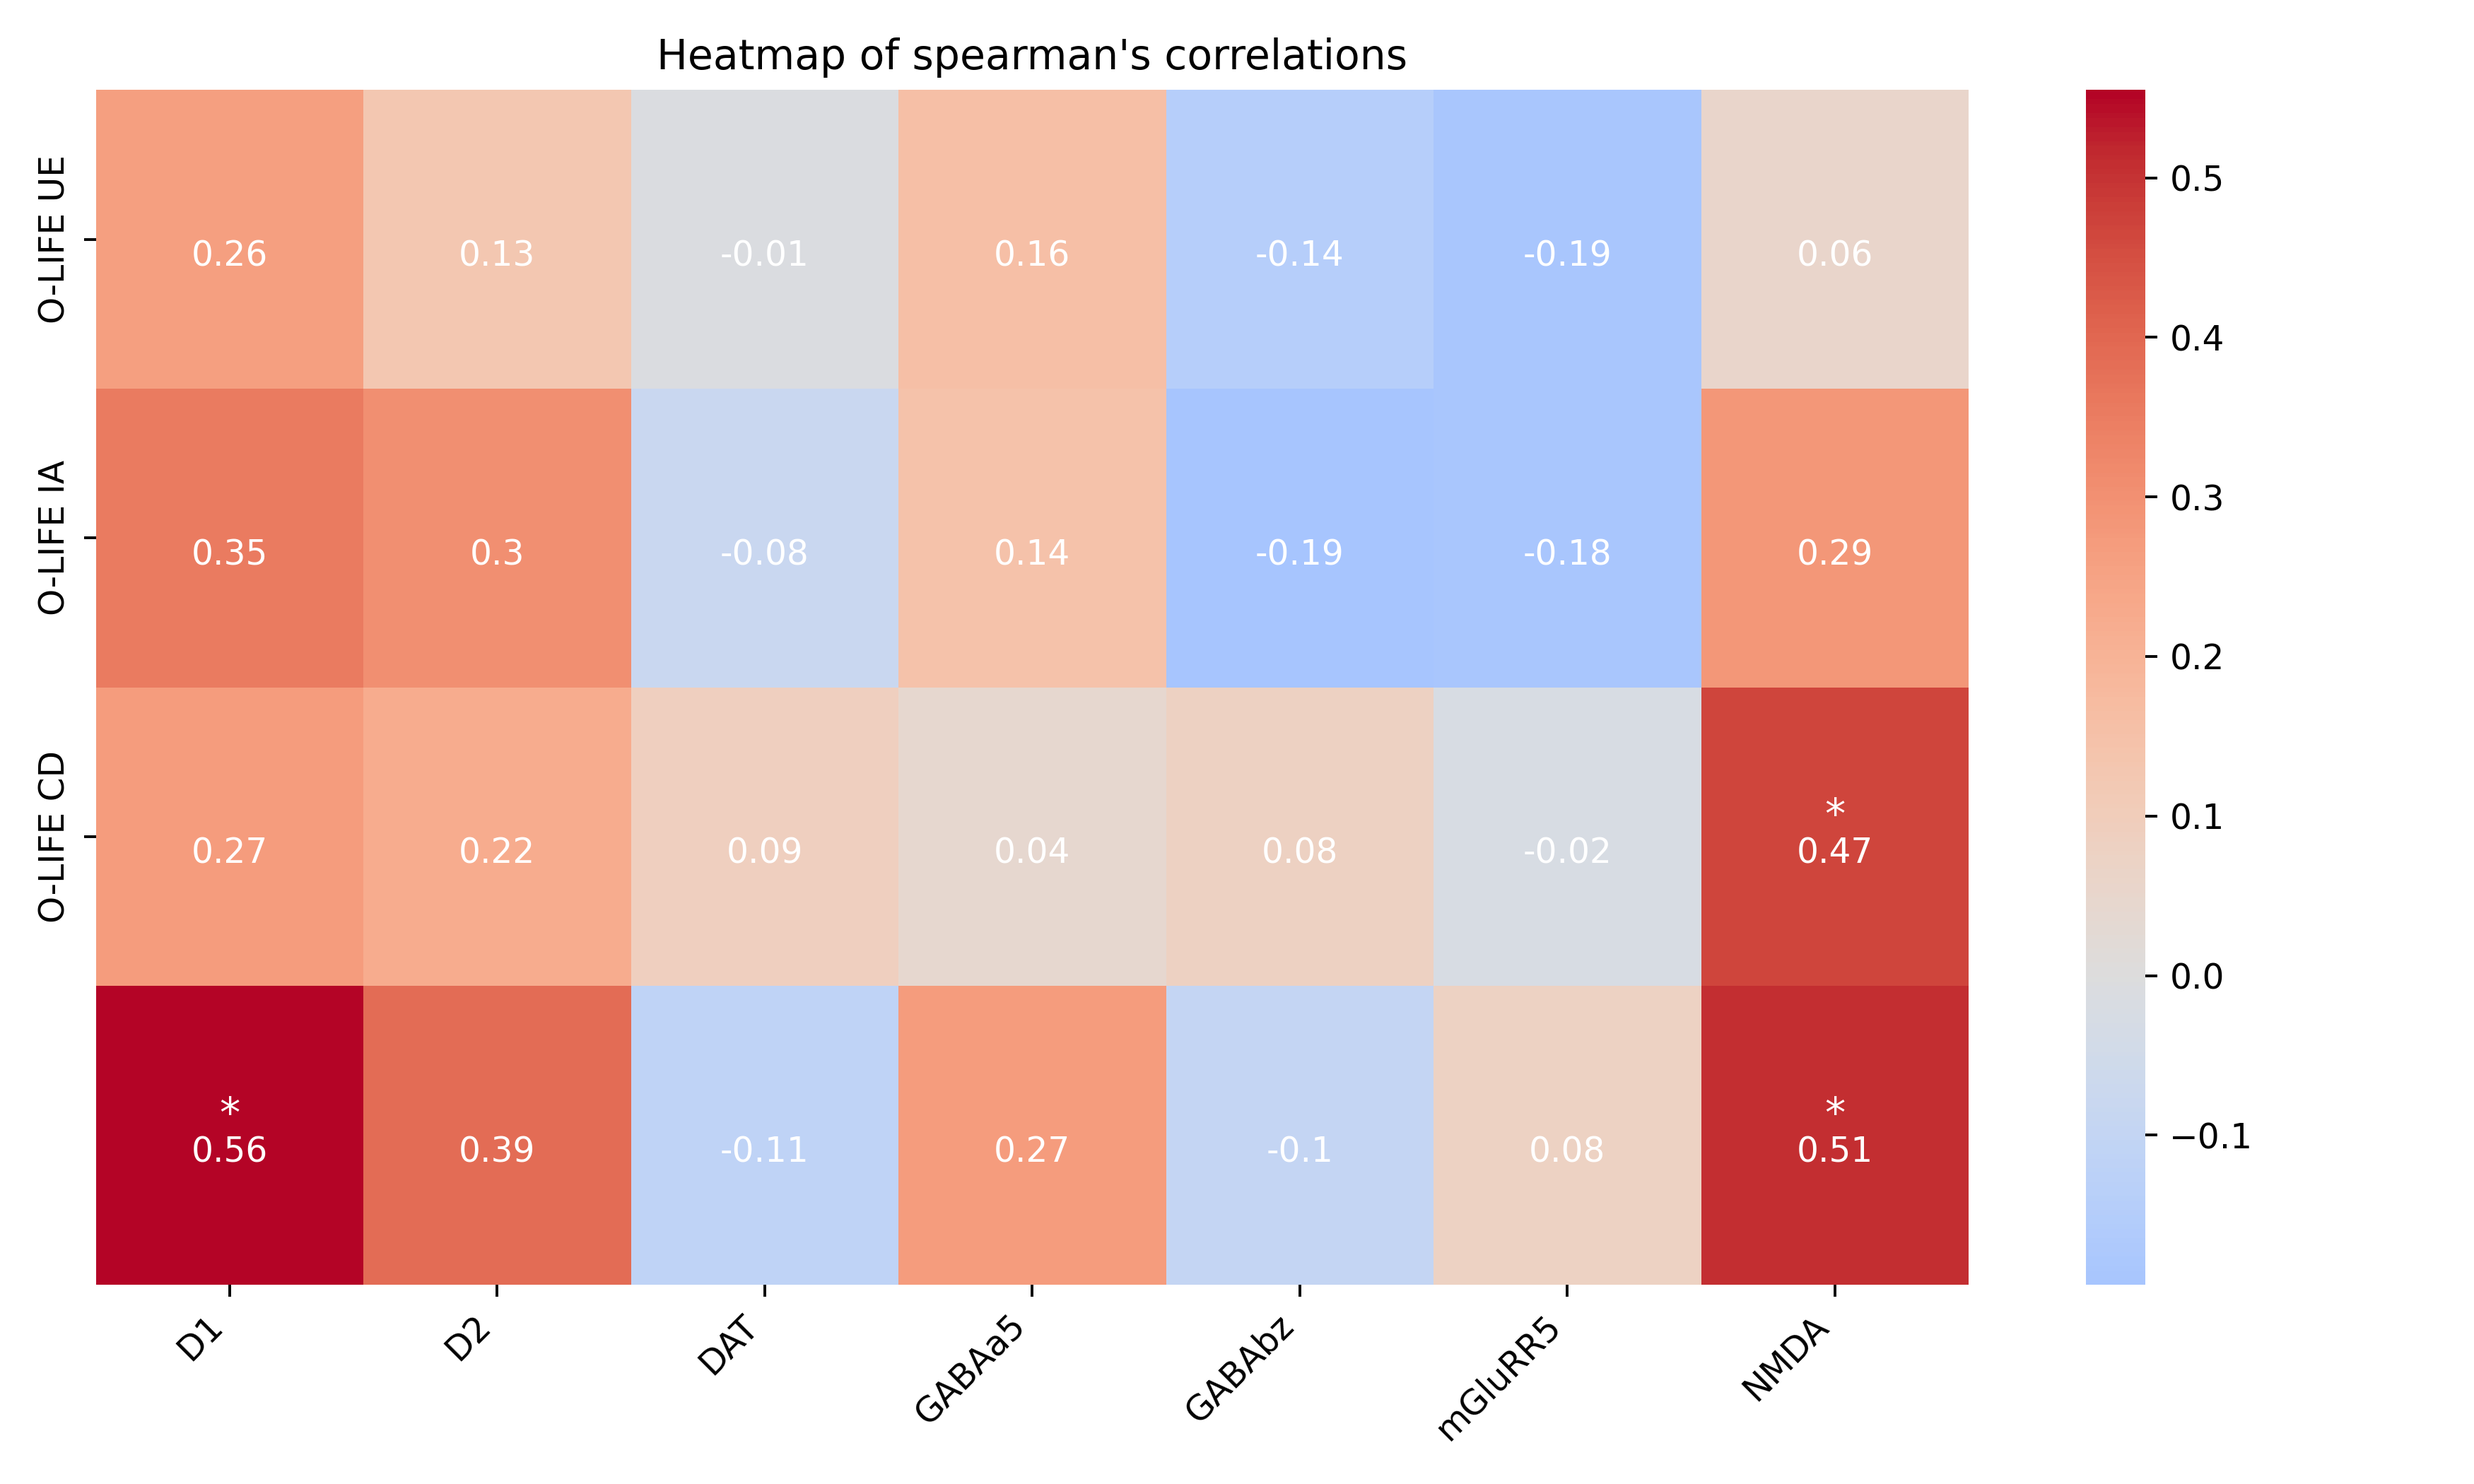
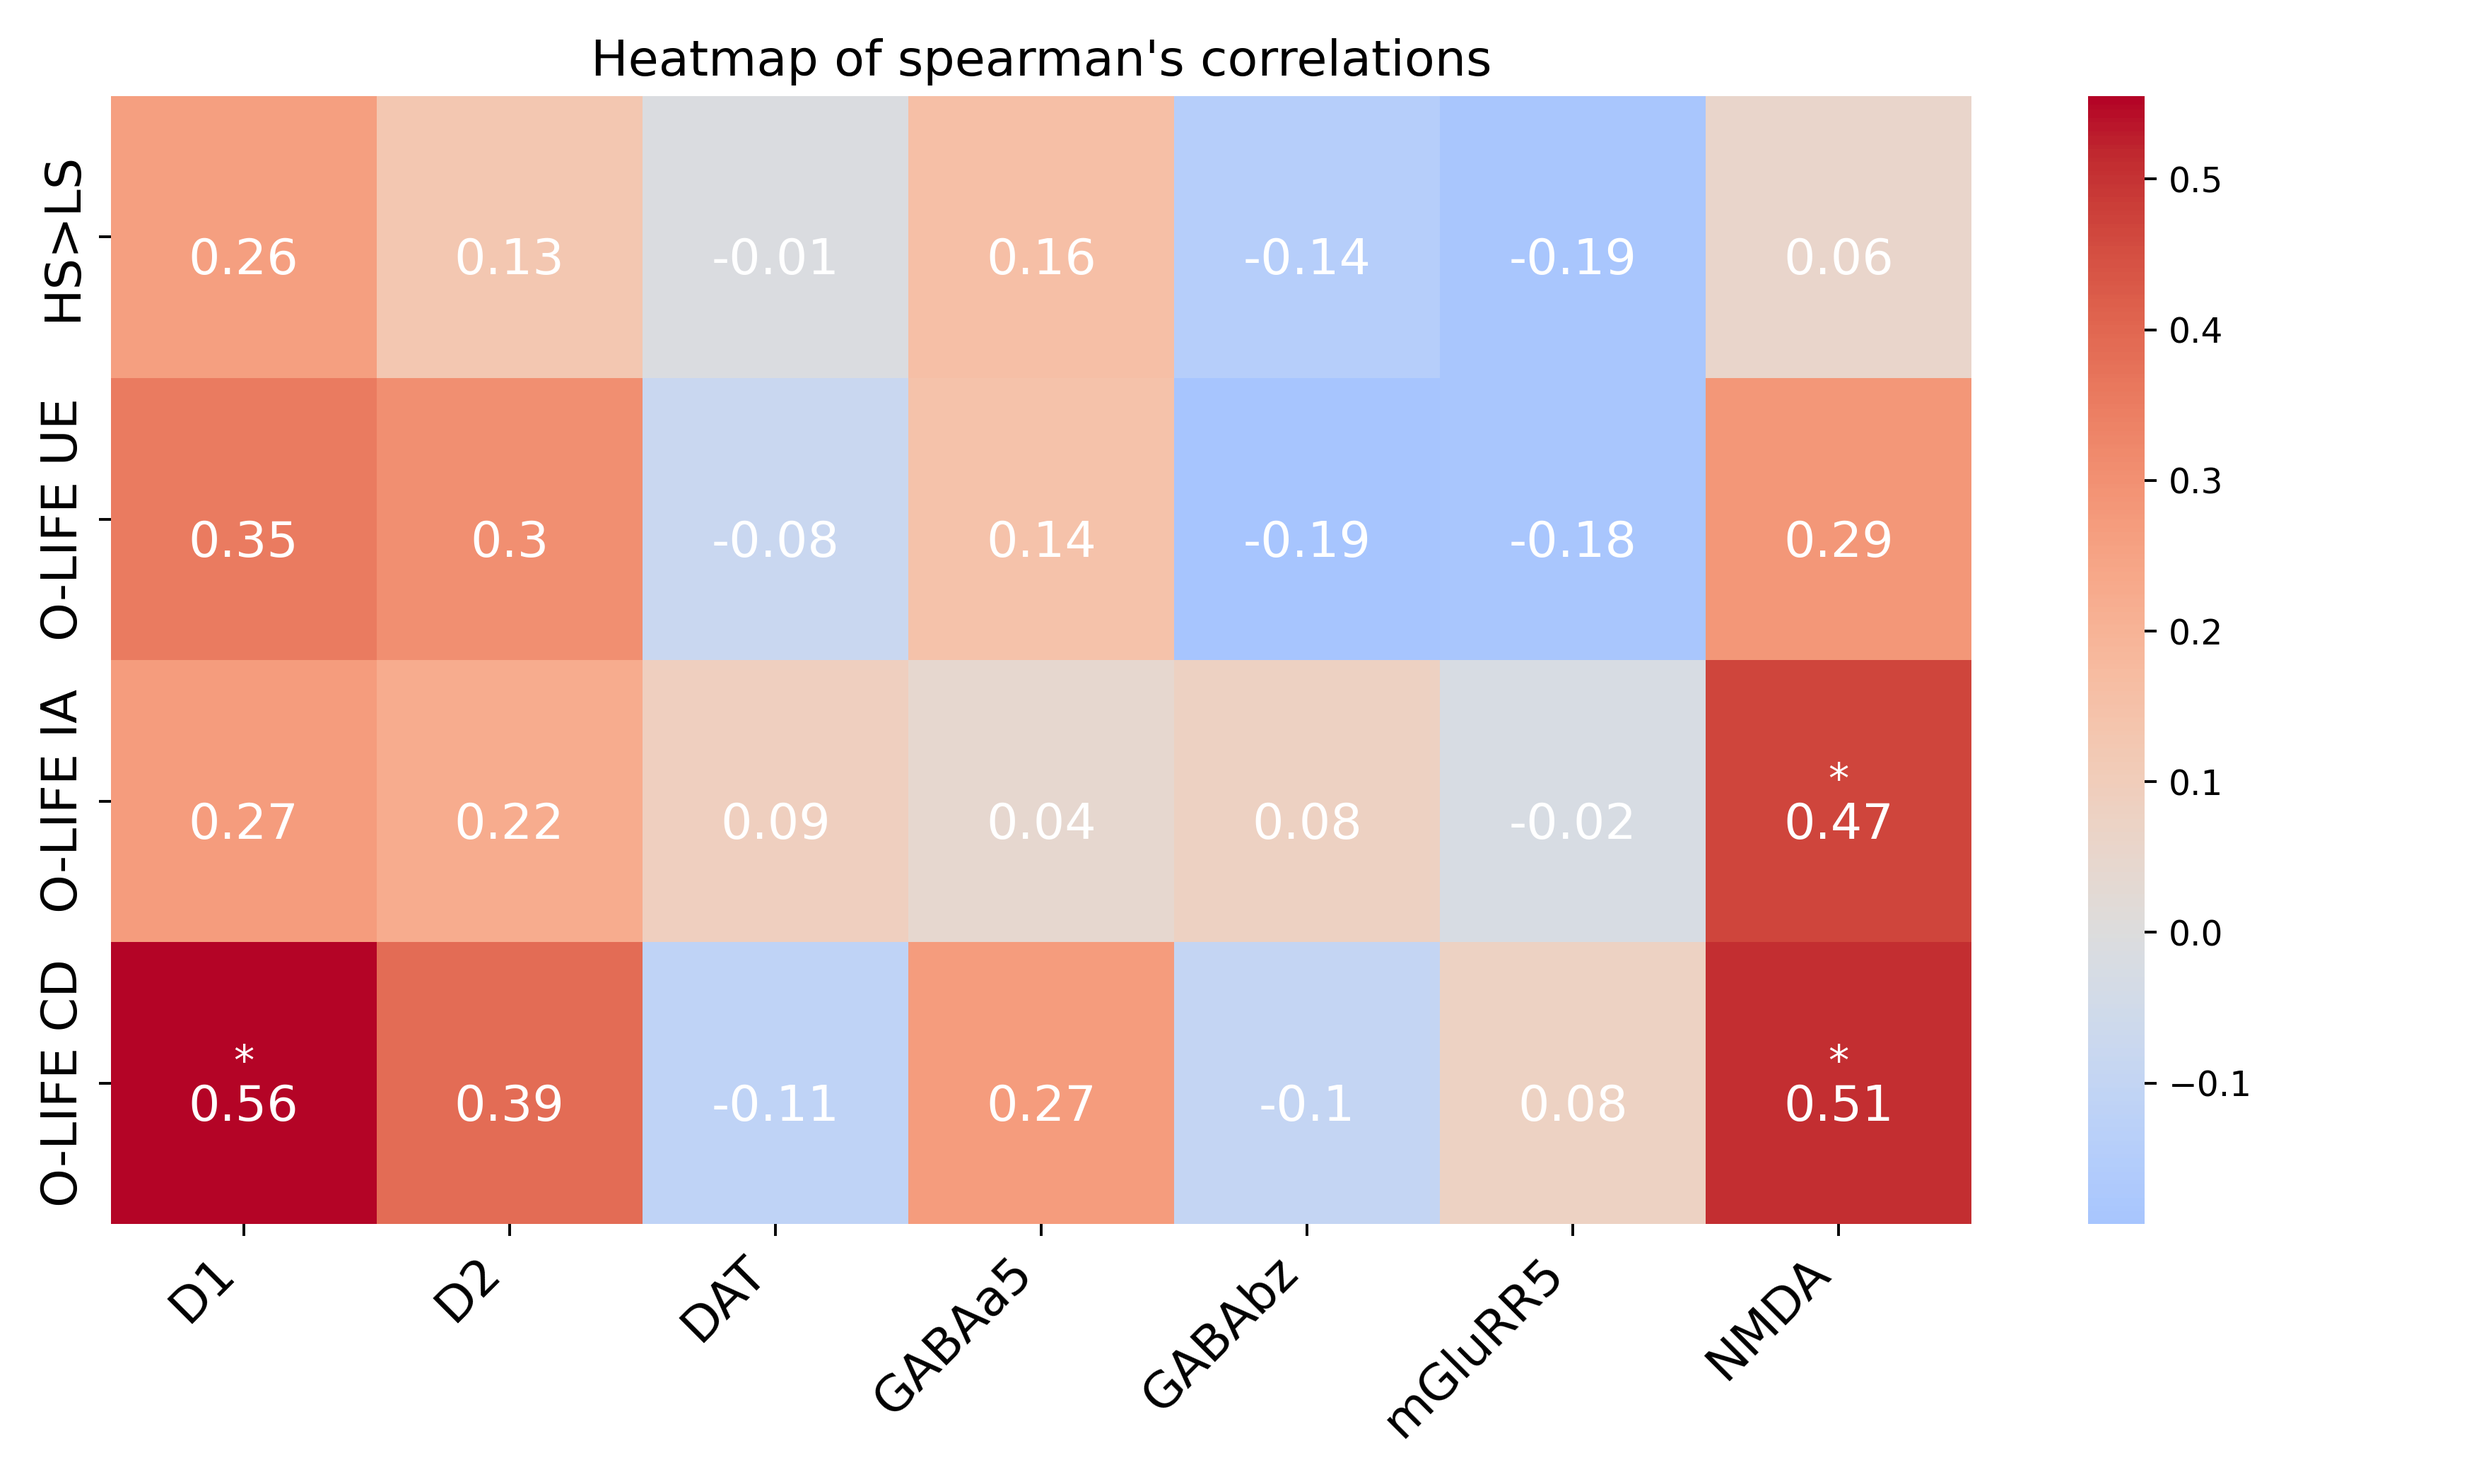
.

diff --git a/4_figures/1_heatmap.py b/4_figures/1_heatmap.py
@@ -41,7 +41,10 @@ asterisk = asterisk.replace(False, ' ')
 import seaborn as sns
 import matplotlib.pyplot as plt
 from matplotlib import rc
+from matplotlib.font_manager import FontProperties
 rc('text')
+font = FontProperties()
+font.set_size('x-large')
 
 # Transparent background for figures
 plt.rcParams.update({
@@ -50,9 +53,7 @@ plt.rcParams.update({
 
 # Labels for the heatmap- y axis
 CBF_labels = [ # names of CBF files
-    # 'HS>LS no cov', # no covariates
-    # 'HS>LS 2 cov', # 2 covariates: age, sex
-    # 'HS>LS 4 cov', # all 4 covariates: age, sex, coffee, cigarettes
+    'HS>LS', # no covariates
     'O-LIFE UE', # O-LIFE-UE regression
     'O-LIFE IA', # O-LIFE-IA regression
     'O-LIFE CD' # O-LIFE-CD regression
@@ -69,11 +70,16 @@ plt.figure(figsize=(10,6))
 cmap=sns.color_palette("coolwarm", as_cmap=True)
 
 # First heatmap is the transparent/ no-colour heatmap containing just the annotations of correlation coefficients
-heatmap_values = sns.heatmap(map_zeroes, cmap=None, annot_kws={'va':'top', 'fontsize':'medium'}, annot=corr_labels, square=False, cbar=False)
+heatmap_values = sns.heatmap(map_zeroes, cmap=None, annot_kws={'va':'top','fontsize':'x-large'}, annot=corr_labels, square=False, cbar=False)
+
 # The second heatmap is the main one, colour based on strength of correlations, while annotations are based on p_values (* if significant after Bonferroni)
-heatmap_main = sns.heatmap(all_corrs, cmap=cmap, center=0, xticklabels=receptor_names, yticklabels=CBF_labels, annot_kws={'va':'bottom', 'fontsize':'large'}, annot=asterisk, fmt='', square=False)
+heatmap_main = sns.heatmap(all_corrs, cmap=cmap, center=0, annot_kws={'va':'bottom', 'fontsize':'large'}, annot=asterisk, fmt='', square=False)
+
 # Set labels/title
-heatmap_main.set(xlabel="", ylabel="", title="Heatmap of spearman's correlations")
+heatmap_main.set(xlabel="", ylabel="")
+heatmap_main.set_title(label="Heatmap of spearman's correlations",fontproperties=font)
+heatmap_main.set_xticklabels(labels=receptor_names,fontproperties=font)
+heatmap_main.set_yticklabels(labels=CBF_labels,fontproperties=font)
 # Rotate labels on x axis by 45 degrees
 plt.xticks(rotation=45, ha="right")
 # Fit all labels within the figure
